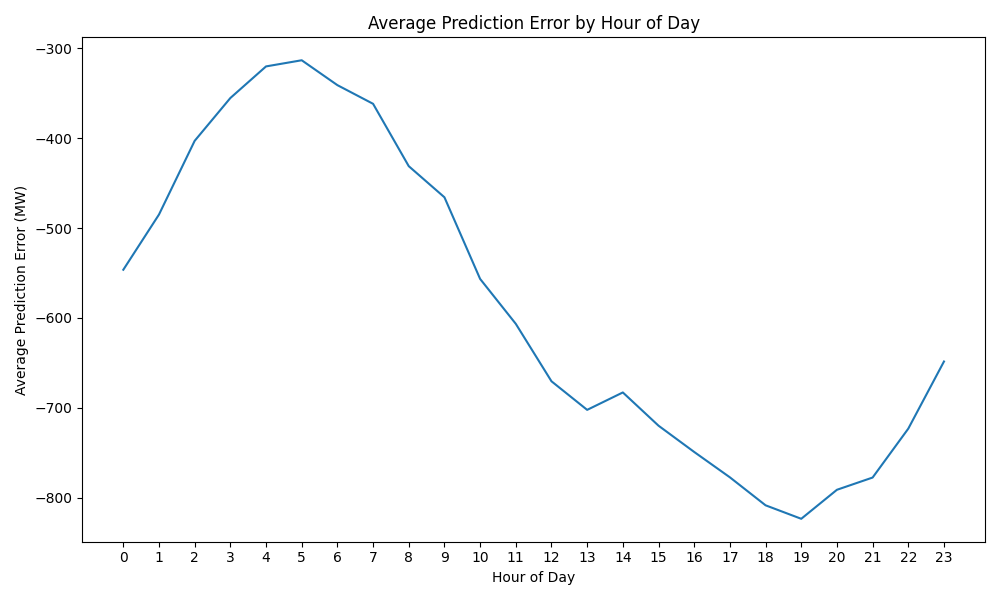
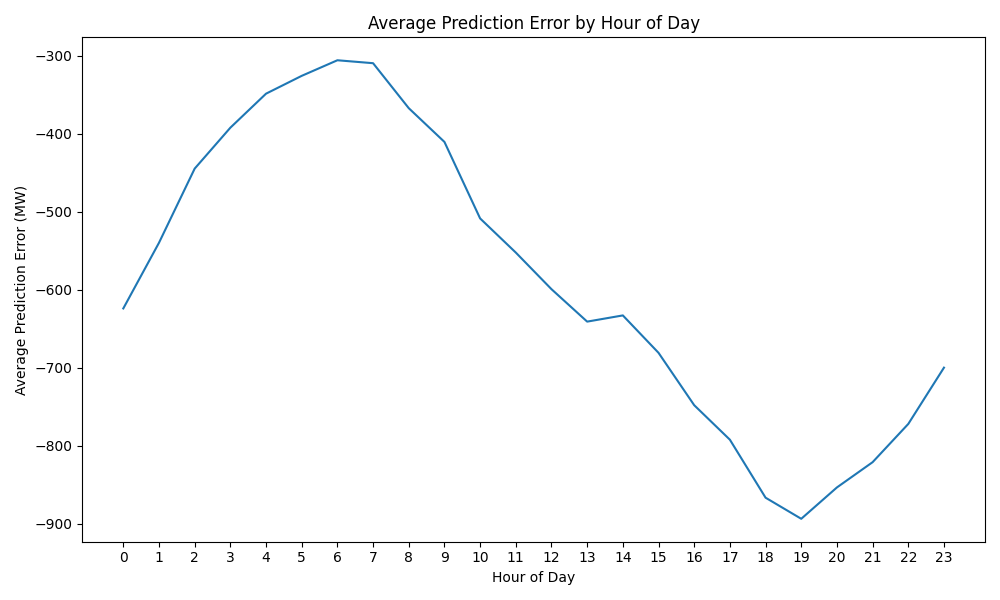
xgb changes

diff --git a/src/train.py b/src/train.py
@@ -84,12 +84,14 @@ def baseline_eval(X_test, y_test):
 def sarima_model(y_train, X_test, y_test):
     model = SARIMAX(y_train, order=(1, 0, 1), seasonal_order=(1, 1, 1, 24), enforce_stationarity=False, enforce_invertibility=False)
     results = model.fit(disp=False)
-    print(results.summary())
+    
     forecast = results.get_forecast(steps=len(X_test))
     forecast_values = forecast.predicted_mean
     forecast_values.index = X_test.index  # Align forecast index with test index
+
     mae_sarima = mean_absolute_error(y_test, forecast_values)
     rmse_sarima = np.sqrt(mean_squared_error(y_test, forecast_values))
+
     print(f"SARIMA MAE: {mae_sarima:.2f}, RMSE: {rmse_sarima:.2f}")
 
 
@@ -136,12 +138,12 @@ def gradient_boosting_model(X_train, y_train, X_test, y_test):
 
 def xgboost_model(X_train, y_train, X_test, y_test):
     model = XGBRegressor(
-        n_estimators=800,
-        learning_rate=0.02,
+        n_estimators=600,
+        learning_rate=0.03,
         max_depth=8,
         subsample=0.8,
         colsample_bytree=0.8,
-        reg_lambda=1.5,
+        reg_lambda=1.0,
         reg_alpha=0.5,
         random_state=42,
         n_jobs=-1
